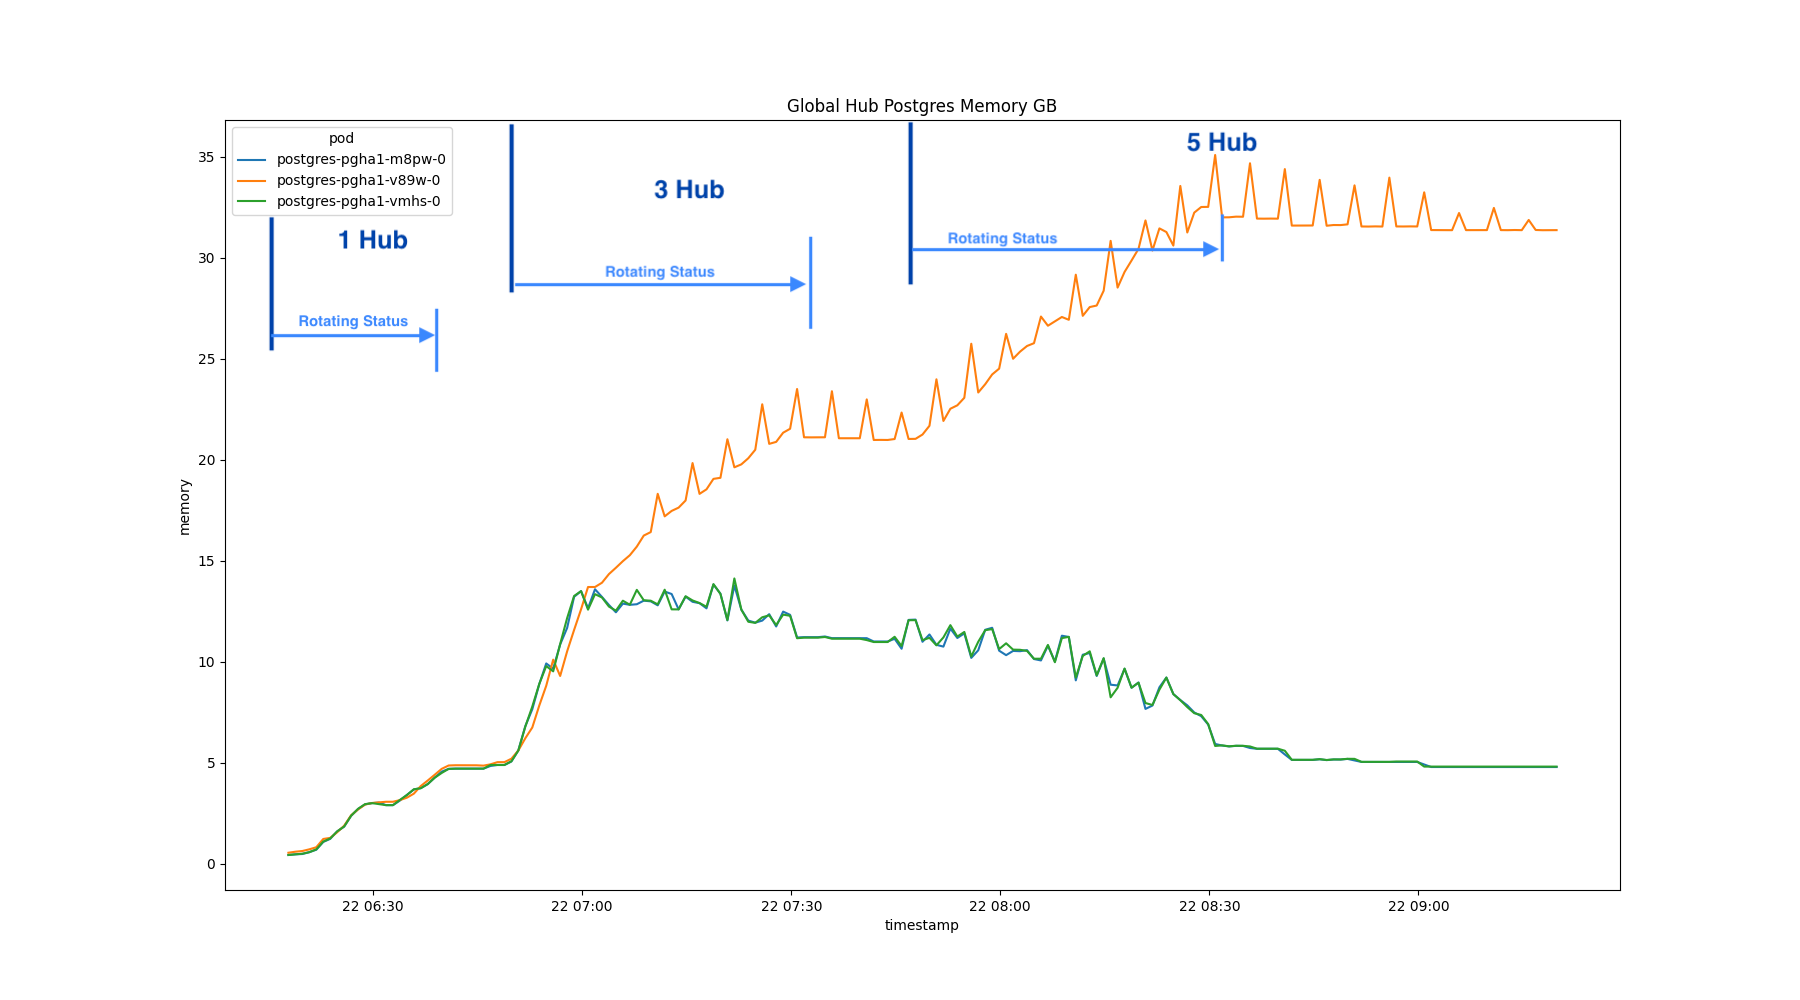
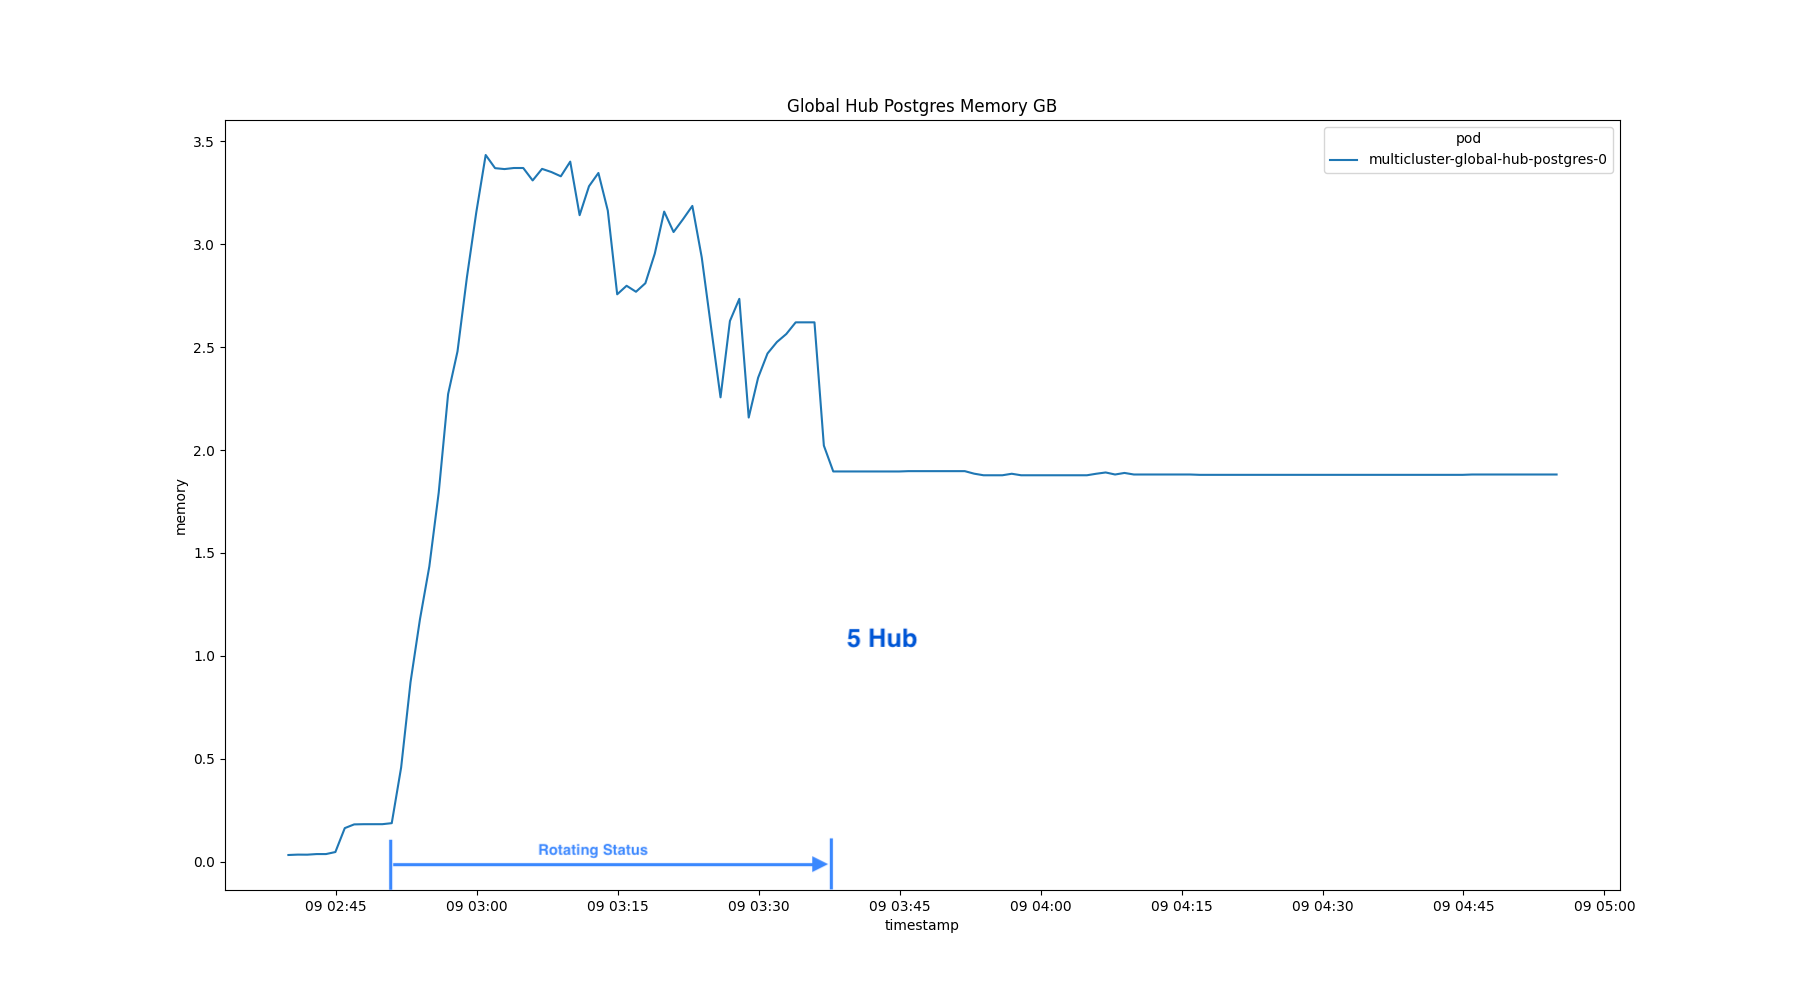
Correct the inspector SQL (#666)
* sonarcloud

* extend the timeout of cronjob

* correct the inpector sql

* fixed the doc

---------

diff --git a/doc/simulation/inspector/src/counter.py b/doc/simulation/inspector/src/counter.py
@@ -20,7 +20,32 @@ output_path = os.path.join(os.path.dirname(script_path), "../output")
 if not os.path.exists(output_path):
     os.makedirs(output_path)
 
-def record_initial(cur, override):
+def get_conn():
+    v1 = client.CoreV1Api()
+    # secret = v1.read_namespaced_secret(name="postgres-pguser-postgres", namespace=global_hub_namespace)
+    secret = v1.read_namespaced_secret(name="multicluster-global-hub-postgres", namespace=global_hub_namespace)
+    postgres_dict = {key: base64.b64decode(val).decode('utf-8') for key, val in secret.data.items()}
+    print(postgres_dict)
+    
+    # need to expose the external host: 
+    # kubectl patch postgrescluster postgres -p '{"spec":{"service":{"type":"LoadBalancer"}}}'  --type merge
+    service = v1.read_namespaced_service(name="multicluster-global-hub-postgres-lb", namespace=global_hub_namespace)
+    external_host = service.status.load_balancer.ingress[0].hostname
+    
+    # Create connection to postgres
+    connection = psycopg2.connect(host=external_host,
+                      port=5432,
+                      user=postgres_dict["database-user"],
+                      password=postgres_dict["database-password"],
+                      dbname=postgres_dict["database-name"])
+    connection.autocommit = True  # Ensure data is added to the database immediately after write commands
+    # cur = connection.cursor()
+    return connection
+
+def record_initial(override):
+    connection = get_conn()
+    cur = connection.cursor()
+
     initial_sql='''
     SELECT TO_CHAR(NOW(), 'YYYY-MM-DD HH24:MI:SS') as time, table_name, COUNT(1) AS count
     FROM (
@@ -34,7 +59,13 @@ def record_initial(cur, override):
     '''
     withHeader=True
     while True:
-      cur.execute(initial_sql)
+      try:
+        cur.execute(initial_sql)
+      except ValueError:
+        print("Invalid operation.", ValueError)
+        connection = get_conn()
+        cur = connection.cursor()
+      
       df = pd.DataFrame([
         {'time': datetime.now(pytz.utc).strftime("%Y-%m-%d %H:%M:%S"), 'compliance': 0, 'event': 0, 'cluster': 0},
       ])
@@ -50,7 +81,10 @@ def record_initial(cur, override):
         
       time.sleep(10)
 
-def record_compliance(cur, override):
+def record_compliance(override):
+    connection = get_conn()
+    cur = connection.cursor()
+    
     compliance_sql='''
     SELECT TO_CHAR(NOW(), 'YYYY-MM-DD HH24:MI:SS') as time, compliance as status, COUNT(1) as count
     FROM local_status.compliance
@@ -58,7 +92,13 @@ def record_compliance(cur, override):
     '''
     withHeader=True
     while True:
-      cur.execute(compliance_sql)
+      try:
+        cur.execute(compliance_sql)
+      except ValueError:
+        print("Invalid operation.", ValueError)
+        connection = get_conn()
+        cur = connection.cursor()
+      # cur.execute(compliance_sql)
       df = pd.DataFrame([
         {'time': datetime.now(pytz.utc).strftime("%Y-%m-%d %H:%M:%S"), 'compliant': 0, 'non_compliant': 0},
       ])
@@ -73,6 +113,7 @@ def record_compliance(cur, override):
         df.to_csv(output_path + "/count-compliance.csv", mode='a', header=False, index=False)
       time.sleep(60)
 
+  
 def main():
     now = datetime.now(pytz.utc)
     print(Back.LIGHTYELLOW_EX+"")
@@ -87,28 +128,10 @@ def main():
     
     config.load_kube_config()
     
-    v1 = client.CoreV1Api()
-    
     try:
       
-      secret = v1.read_namespaced_secret(name="postgres-pguser-postgres", namespace=global_hub_namespace)
-      postgres_dict = {key: base64.b64decode(val).decode('utf-8') for key, val in secret.data.items()}
-      
-      # need to expose the external host: 
-      # kubectl patch postgrescluster postgres -p '{"spec":{"service":{"type":"LoadBalancer"}}}'  --type merge
-      service = v1.read_namespaced_service(name="postgres-ha", namespace=global_hub_namespace)
-      external_host = service.status.load_balancer.ingress[0].hostname
-      
-      # Create connection to postgres
-      connection = psycopg2.connect(host=external_host,
-                        port=postgres_dict["port"],
-                        user=postgres_dict["user"],
-                        password=postgres_dict["password"],
-                        dbname=postgres_dict["dbname"])
-      connection.autocommit = True  # Ensure data is added to the database immediately after write commands
-      cur = connection.cursor()
-      thread1 = threading.Thread(target=record_initial, args=(cur, override))
-      thread2 = threading.Thread(target=record_compliance, args=(cur, override))
+      thread1 = threading.Thread(target=record_initial, args=(override,))
+      thread2 = threading.Thread(target=record_compliance, args=(override,))
 
       thread1.start()
       thread2.start()

diff --git a/doc/simulation/inspector/src/memory_usage.py b/doc/simulation/inspector/src/memory_usage.py
@@ -212,9 +212,11 @@ def global_hub_postgres_memory_usage(pc, start_time, end_time, step):
     
     try:
         query = '''
-          sum(
-            container_memory_usage_bytes{namespace="multicluster-global-hub", pod=~"postgres-pgha.*"}
-          ) by (pod) / (1024*1024*1024)
+        sum(
+            container_memory_working_set_bytes{job="kubelet", metrics_path="/metrics/cadvisor", cluster="", namespace="multicluster-global-hub", container!="", image!="", pod=~"multicluster-global-hub-postgres-.*"}
+          * on(pod)
+            group_left(workload, workload_type) namespace_workload_pod:kube_pod_owner:relabel{cluster="", namespace="multicluster-global-hub", workload_type="statefulset"}
+        ) by (pod) / (1024 * 1024 * 1024)
         '''
         global_hub_trend = pc.custom_query_range(
             query=query,
@@ -250,9 +252,7 @@ def global_hub_kafka_memory_usage(pc, start_time, end_time, step):
     
     try:
         query = '''
-          sum(
-            container_memory_usage_bytes{namespace="multicluster-global-hub", pod=~"kafka-kafka-.*"}
-          ) by (pod) / (1024*1024*1024)
+        sum(container_memory_working_set_bytes{job="kubelet", metrics_path="/metrics/cadvisor", cluster="", namespace="multicluster-global-hub", container!="", image!="", pod=~"kafka-kafka-.*"}) by (pod) / (1024*1024*1024)
         '''
         global_hub_trend = pc.custom_query_range(
             query=query,
@@ -282,15 +282,13 @@ def global_hub_kafka_memory_usage(pc, start_time, end_time, step):
     print("=============================================")
     
 def global_hub_kafka_zookeeper_memory_usage(pc, start_time, end_time, step):
-    title = "Global Hub Kafka Zookeeper Memory GB"
+    title = "Global Hub Kafka Zookeeper Memory MB"
     file = "global-hub-kafka-zookeeper-memory-usage"
     print(title)
     
     try:
         query = '''
-          sum(
-            container_memory_usage_bytes{namespace="multicluster-global-hub", pod=~"kafka-zookeeper-.*"}
-          ) by (pod) / (1024*1024*1024)
+         sum(container_memory_working_set_bytes{job="kubelet", metrics_path="/metrics/cadvisor", cluster="", namespace="multicluster-global-hub", container!="", image!="", pod=~"kafka-zookeeper-.*"}) by (pod) / (1024*1024)
         '''
         global_hub_trend = pc.custom_query_range(
             query=query,

diff --git a/doc/simulation/inspector/src/cpu_usage.py b/doc/simulation/inspector/src/cpu_usage.py
@@ -230,7 +230,7 @@ def global_hub_postgres(pc, start_time, end_time, step):
     try:
         query = '''
         sum(
-          node_namespace_pod_container:container_cpu_usage_seconds_total:sum_irate{namespace="multicluster-global-hub", pod=~"postgres-pgha.*"}
+          node_namespace_pod_container:container_cpu_usage_seconds_total:sum_irate{namespace="multicluster-global-hub", pod=~"multicluster-global-hub-postgres.*"}
         ) by (pod)
         '''
         cpu_trend = pc.custom_query_range(

diff --git a/doc/simulation/README.md b/doc/simulation/README.md
@@ -52,7 +52,7 @@ The global hub counters are used to count the managed clusters, compliances and 
   | Manager | Request | Limit |
   |---|---|---|
   | CPU | 0.1 | 0.5 |
-  | Memory | 100 MB | 300 MB |
+  | Memory | 100 Mi | 300 Mi |
 
 - Multicluster Global Hub Grafana
 ![Global Hub Grafana CPU](./../images/global-hub-grafana-cpu-usage.png)
@@ -65,7 +65,7 @@ The global hub counters are used to count the managed clusters, compliances and 
   | Operator | Request | Limit |
   |---|---|---|
   | CPU | 0.001 | 0.05 |
-  | Memory | 100 MB | 200 MB |
+  | Memory | 100 Mi | 200 Mi |
 
 - Multicluster Global Hub Agent on Managed Hub
 ![Global Hub Agent CPU](./../images/global-hub-agent-cpu-usage.png)
@@ -74,7 +74,7 @@ The global hub counters are used to count the managed clusters, compliances and 
   | Agent | Request | Limit |
   |---|---|---|
   | CPU | 0.01 | 0.05 |
-  | Memory | 200 MB | 1000 MB |
+  | Memory | 200 Mi | 1000 Mi |
 
 ### The CPU and Memory Consumption of the Middlewares
 
@@ -84,7 +84,7 @@ The global hub counters are used to count the managed clusters, compliances and 
   | KafkaBroker | Request | Limit |
   |---|---|---|
   | CPU | 0.004 | 0.2 |
-  | Memory | 1.5 G | 5 G |
+  | Memory | 1.5 Gi | 5 Gi |
 
 - Multicluster Global Hub Kafka Zookeeper
 ![Global Hub Kafka Zookeeper CPU](./../images/global-hub-kafka-zookeeper-cpu-usage.png)
@@ -93,15 +93,16 @@ The global hub counters are used to count the managed clusters, compliances and 
   | KafkaZookeeper | Request | Limit |
   |---|---|---|
   | CPU | 0.01 | 0.02 |
-  | Memory | 0.8 G | 2 G |
+  | Memory | 0.8 Gi | 2 Gi |
 
 - Multicluster Global Hub Postgres
 ![Global Hub Postgres CPU](./../images/global-hub-postgres-cpu-usage.png)
 ![Global Hub Postgres Memory](./../images/global-hub-postgres-memory-usage.png)
 
-| Postgres | Request | Limit |
-|---|---|---|
-| CPU | 0.5 | 5 |
+  | Postgres | Request | Limit |
+  |---|---|---|
+  | CPU | 0.5 | 5 |
+  | Memory | 128Mi | 4Gi |
 
 ## Related Material
 
